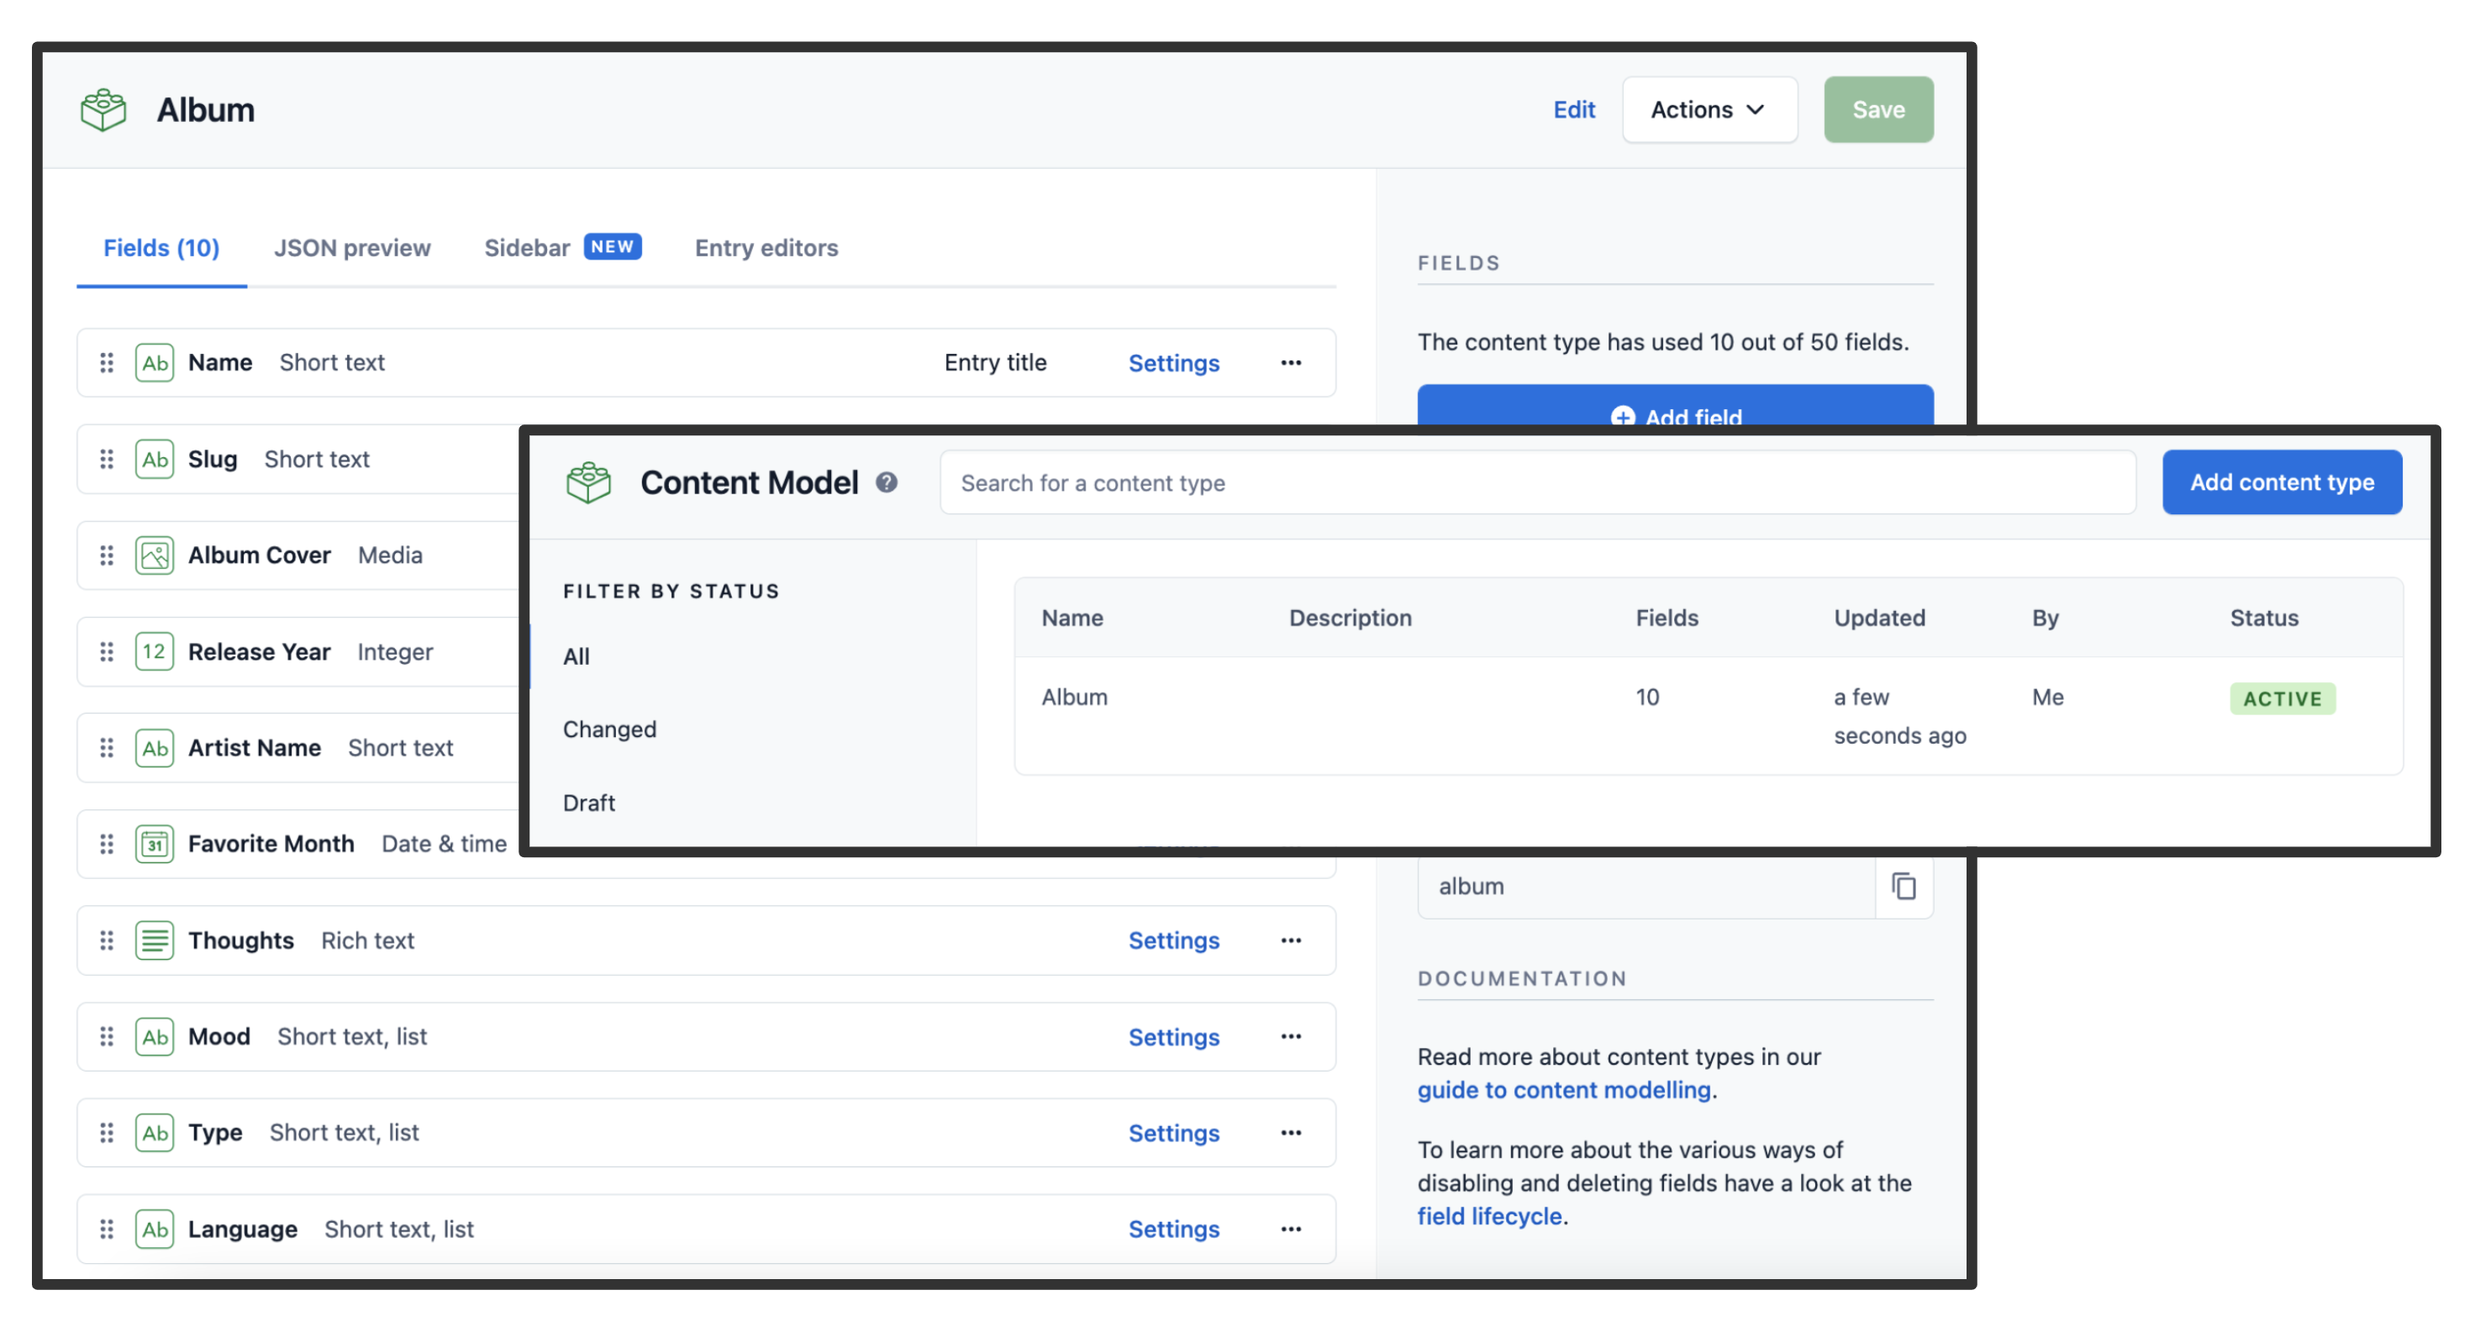
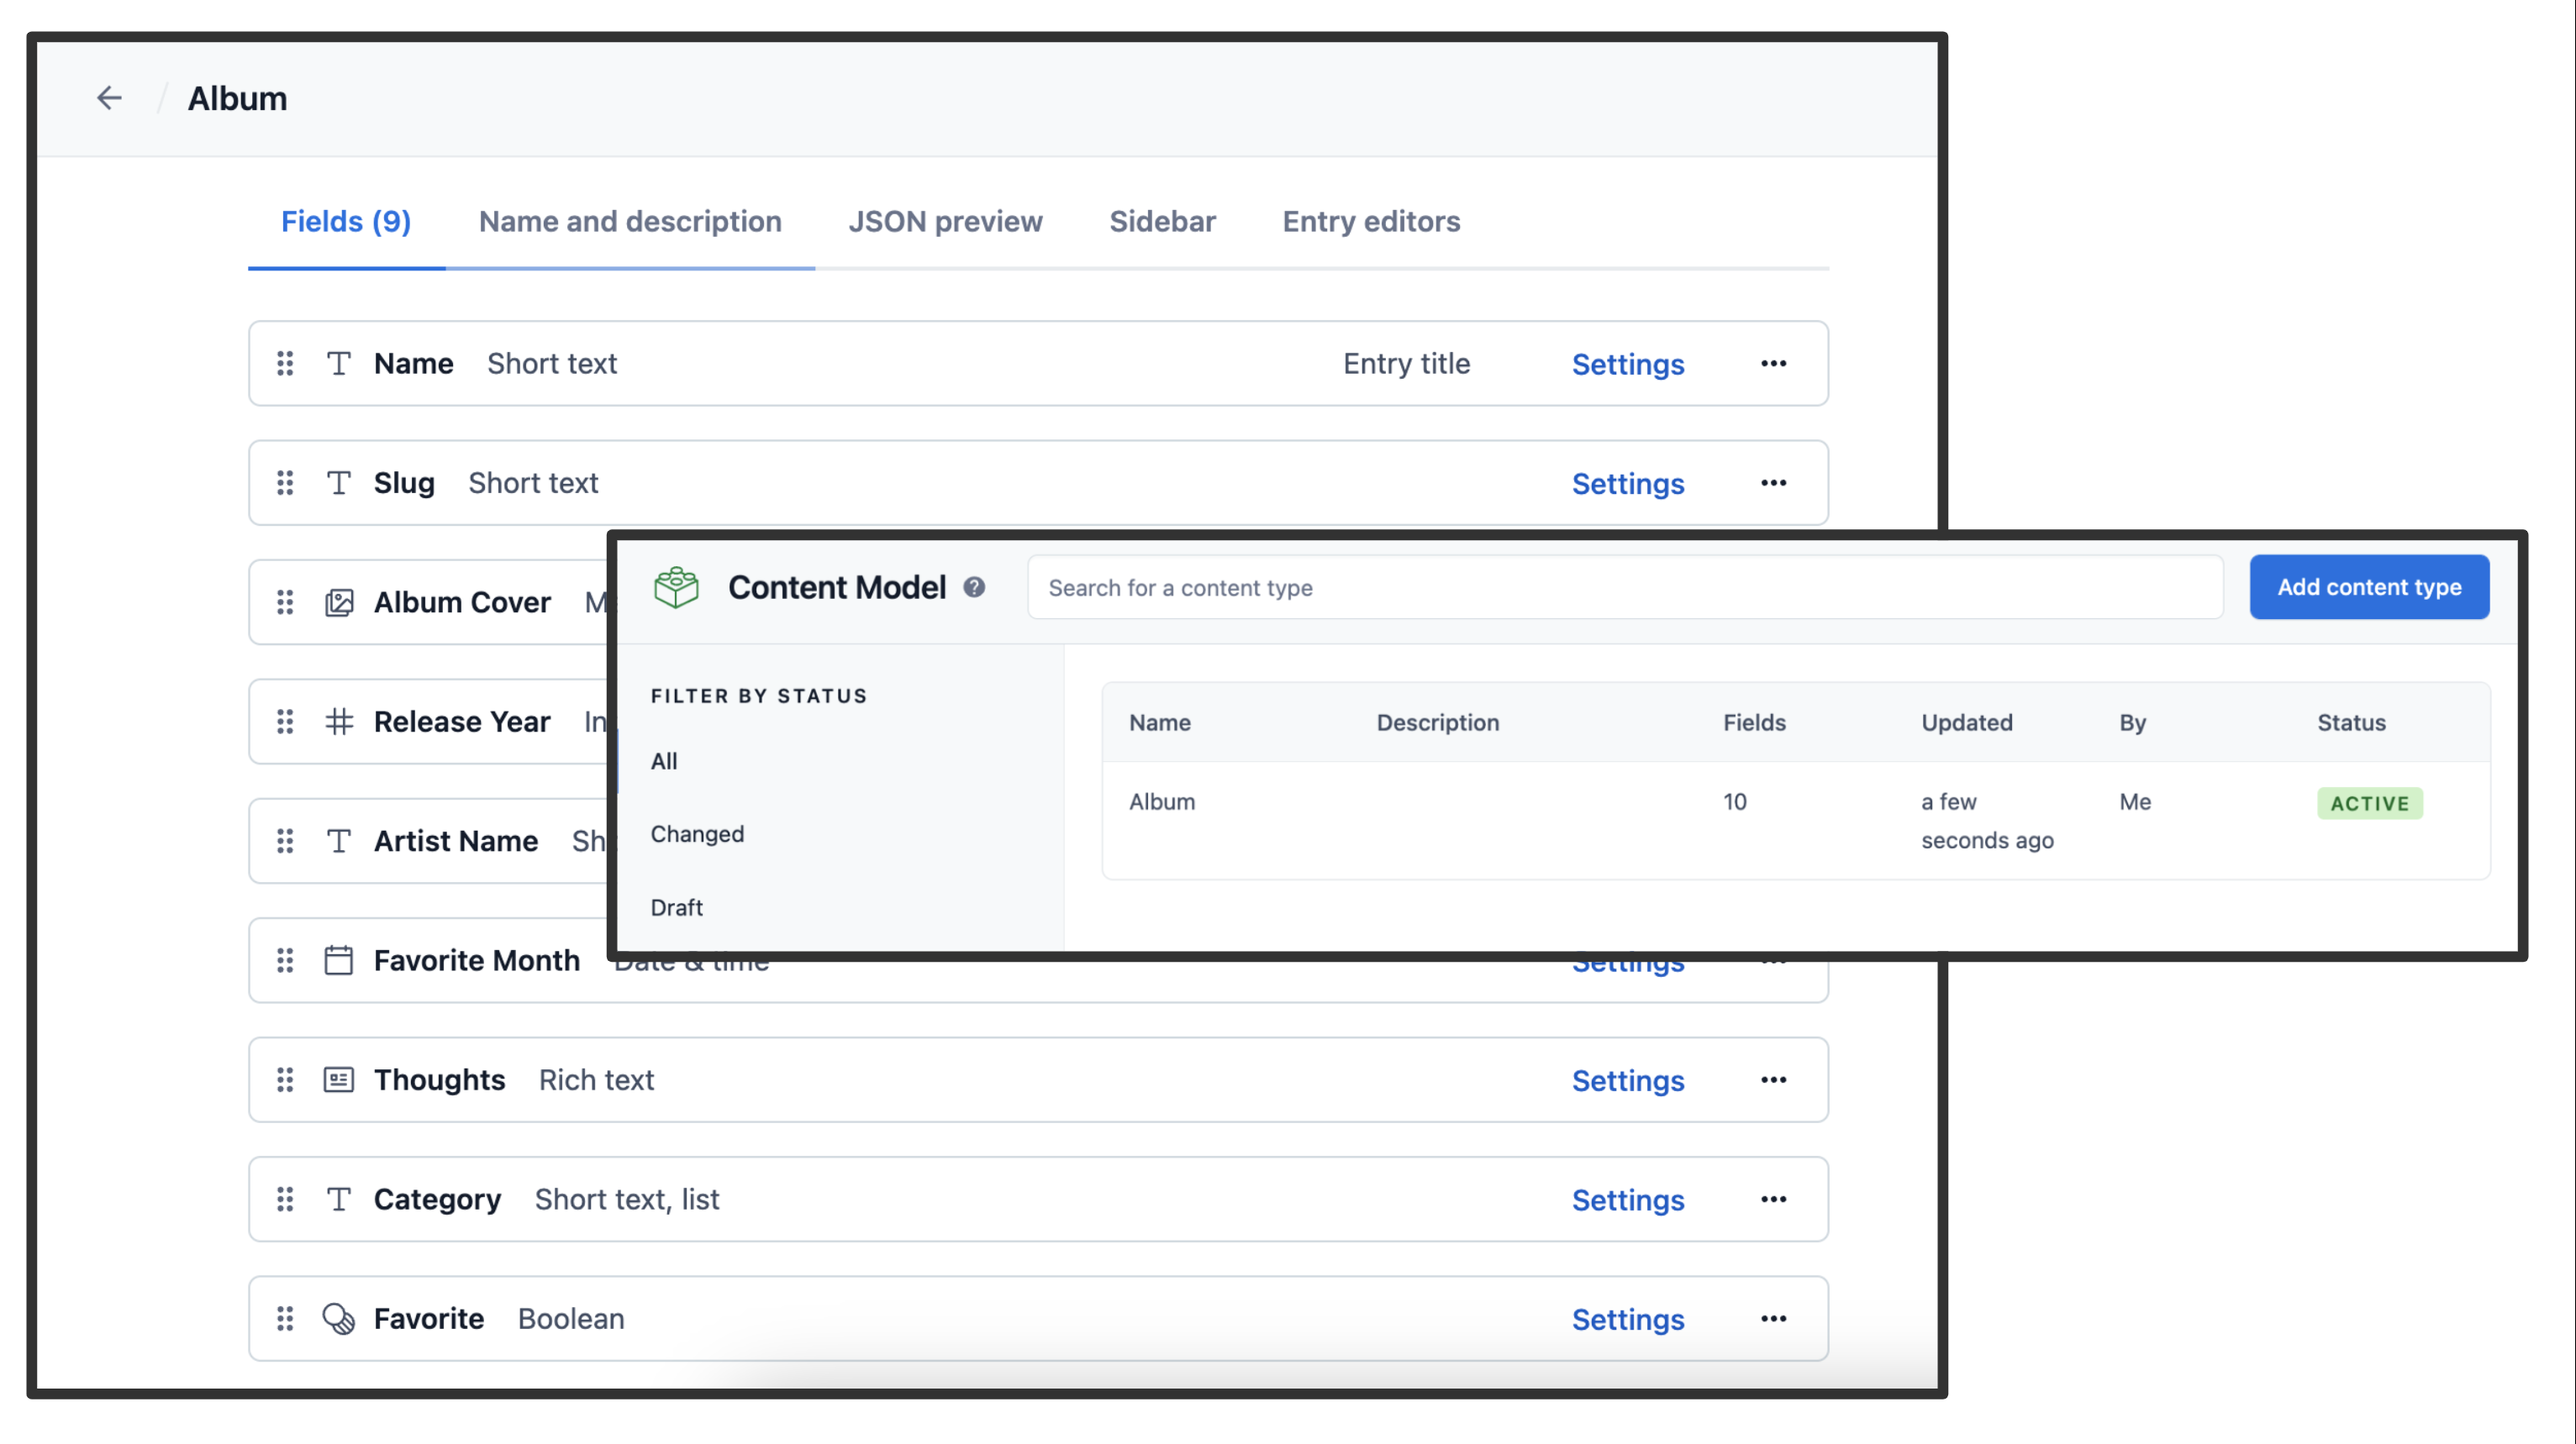
Update Readme

diff --git a/styles/index.css b/styles/index.css
@@ -130,6 +130,7 @@ h1 {
   flex-wrap: wrap;
   justify-content: center;
   padding: 20px;
+  align-items: stretch;
 }
 
 .home-albums .album {

diff --git a/README.md b/README.md
@@ -85,11 +85,10 @@ Once the content model is saved, add these fields (you don't have to modify the 
 - `Album Cover` - **Media** field (type **one file**). 
 - `Release Year` - **Number** field
 - `Artist Name` - **Text** field (type **short text**). 
-- `Favorite Month Year` - **Date** field
+- `Favorite Month` - **Date** field
 - `Thoughts` - **Rich text** field
-- `Mood` - **Text** field (type **short text list**). 
-- `Type` - **Text** field (type **short text list**).
-- `Language` - **Text** field (type **short text list**).
+- `Category` - **Text** field (type **short text list**). 
+- `Favorite` - **Boolean** field. 
 
 Save the content type and continue.
 
